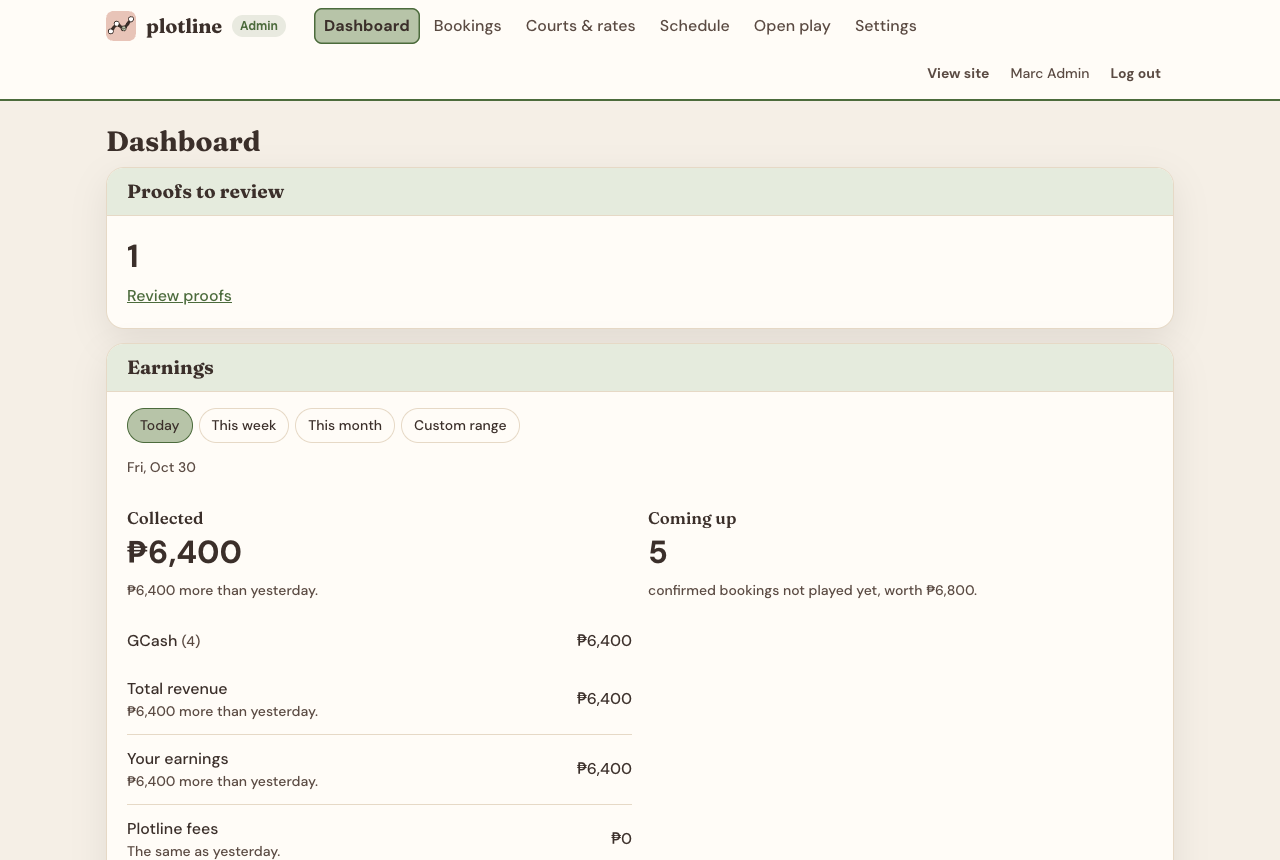
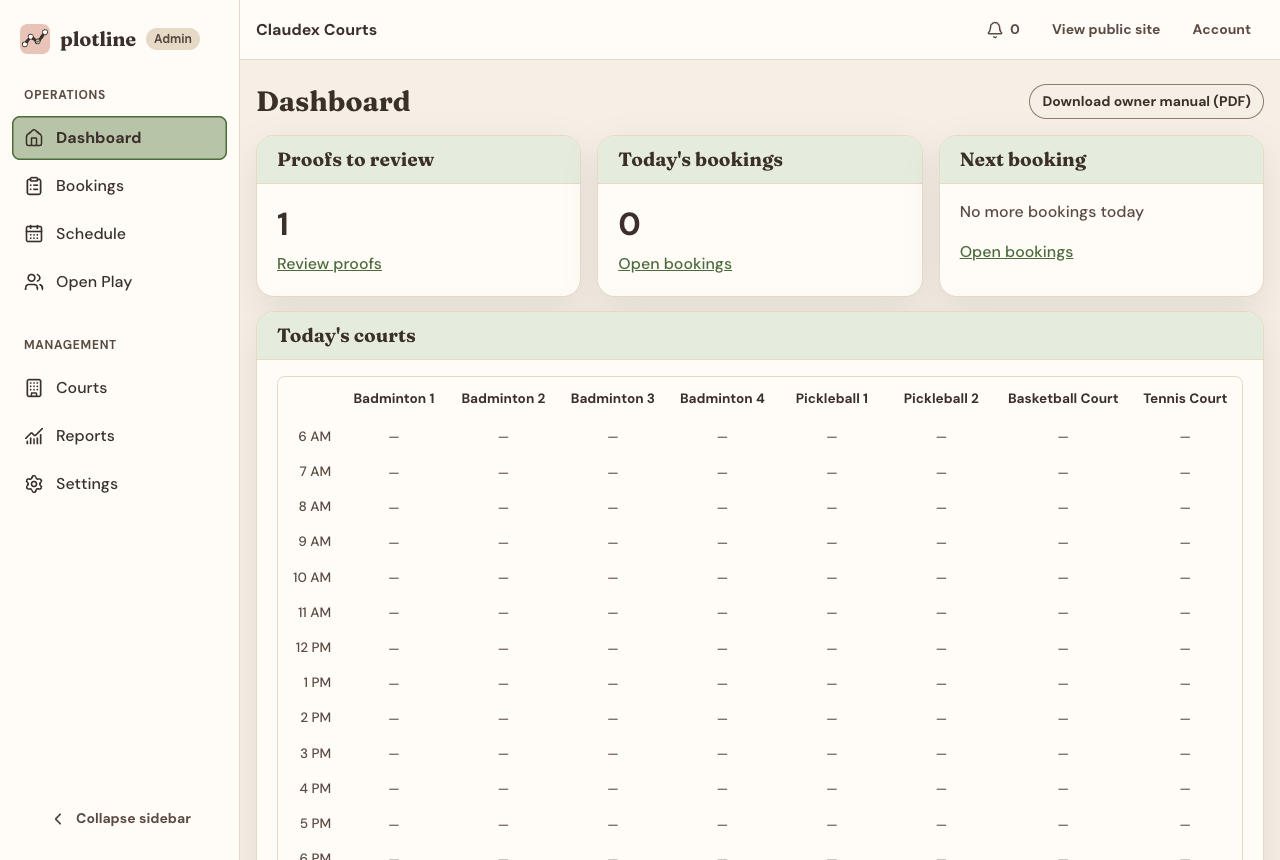
docs(m27): T27.10 close out M27

diff --git a/TASKS.md b/TASKS.md
@@ -7,7 +7,7 @@ The working plan. [SPEC.md](SPEC.md) says **what** the product does; this file s
 - **Product audit (2026-11-12):** reviewed both repositories as one SaaS; see [Plotline SaaS product review](<reports/Plotline SaaS product review.md>). Analysis only: recommendations are not accepted backlog or implementation changes; product code and the current next task are unchanged. Research included read-only live marketing/demo inspection; no implementation gates were run. **Broken down on 2026-11-13 into M27** (the user's calls; see Current milestone).
 
 - **Owner email copy polish (2026-11-07, the user's request, commit `2da16be`):** warmer invitation, clearer one-use/expiry instructions, descriptive HTML links, guide/support wording, walkthrough offer and “See you on court” sign-off in `_shared/ownerInvite.ts` (HTML and plain text; existing-account sign-in kept). Reviewer PASS with no findings. Gate: covered by T17.30's full gate with e2e on 2026-11-07 (HEAD `7c0bb7d` contains it). Staging's `invite-venue-owner` was redeployed at 03:50 UTC, after the commit (03:48 UTC), so staging sends this copy; production's deploy order is not verified here (check `updated_at` with the production project linked before inviting a real owner).
-- **Current milestone:** M18 Venue feature switches ✅ done on 2026-11-10 (T18.1–T18.5; started before M16 closed, the user's call; milestone review PASS). **M19 Promo rates ✅ done on 2026-11-10** (T19.1–T19.4; milestone review PASS). **M20 Fuller venue themes ✅ done on 2026-11-10** (T20.1–T20.4). **M22 Sport card shortcuts ✅ done on 2026-11-12** (T22.1, T22.1b, T22.2; milestone review PASS). **M24 Venue staff invites ✅ done on 2026-11-13** (T24.1 `17a605f`, T24.2 `e93dfe7`, T24.3; milestone review PASS). /retro M24 done 2026-11-13 (no changes). **M25 Console polish ✅ done on 2026-11-13** (T25.1 `8dbc063`, T25.2; milestone review PASS). **M26 Invoice delivery ✅ done on 2026-11-13** (T26.1–T26.8; milestone review PASS). **Next task:** T27.10 (T27.9 done 2026-11-15: PayMongo removed from plotline-site, QR code named as a payment option, reviewer PASS, site deployed with the user's approval; T27.8 done 2026-11-15: `npm run preflight:release -- --project-ref <ref>` passed on staging and production, reviewer PASS; T27.7 done 2026-11-15: dashboard today first, card links open the filtered bookings, reviewer PASS; T27.6 done 2026-11-15: court details collapsed on `/book` and a compact phone date strip and sport row, so the slot grid shows at 390×844; reviewer PASS in round 2 after an upheld test dispute; T27.5 done 2026-11-15: "Try this time again" / "Book a court" on expired and rejected bookings, reviewer PASS in round 2 after two upheld test disputes; before a full gate check every local container is up, `docker ps -a`, since the edge runtime can stay stopped after a Docker restart; T27.4 done 2026-11-13: one payment path on `/booking/:ref`, reviewer PASS; T27.3 done 2026-11-13: status steps and payment first on `/booking/:ref`, reviewer PASS in round 2; T27.4 and T27.5 now unblocked; T27.2 done 2026-11-13: "Reserve and continue to payment" and the cancellation cutoff at checkout, reviewer PASS; T27.1 done 2026-11-13: fee-inclusive total in the selection bar, reviewer PASS; M27 breakdown approved 2026-11-13; T27.2, T27.6, T27.7, T27.8 and T27.9 can start at once); /retro M26 optional. **Recorded 2026-11-13 (`/propose` on the product review, the user's calls): M27 Trust and daily operations**, T27.1 Fee-inclusive total in the selection bar, T27.2 "Reserve" wording and the cancellation cutoff at checkout, T27.3 Booking page: status steps, payment first, T27.4 One payment path, T27.5 "Try this time again" after an expired or rejected hold, T27.6 Slot grid sooner on phones, T27.7 Owner dashboard: today first, links in context, T27.8 Release preflight, T27.9 Remove PayMongo from the marketing site (plotline-site), T27.10 Close out M27. No migration and no plan gate. T27.1, T27.2, T27.6, T27.7, T27.8 and T27.9 can start at once, and T27.4 and T27.5 follow T27.3. M16's T16.4, T16.5 and T16.7 are no longer postponed (T16.5 now depends on T27.8). Deferred: staff permissions, refund tracking, analytics, contact form, reminders. **M26 released 2026-11-13 (the user's approval, all four steps):** `invoice-pdf` deployed to staging (`avhxinkecylhptysgbjx`) and production (`sfssolhsthteonzgzfos`), v1 on both, same bundle `86d3bc4`, `verify_jwt` on (401 without a session); migration `20261113045318_t26_3_platform_billing` pushed to production (L6: `migration list` on `sfssolhsthteonzgzfos` shows it remote; tables empty, `platform-billing` private); frontend released by merging `develop` into `master` (Cloudflare Workers Builds). Production has no Plotline payment account yet: add one on the console's Billing page before the first Send. Not yet tried outside the local stack: a real send (check the attachment and logo in Gmail/Outlook, T26.4 follow-up). Open M26 minors: T26.1's averaged Rate row and Print omitting the closed charge list; the T26.5/T26.6 e2e skip at 5 local accounts; `invoice_sends.provider_id` always null. T26.7 done 2026-11-13 (`?invoice=` link opens the invoice on Reports, Download PDF on sent/paid; reviewer PASS; needs T26.3's migration and T26.4's function on a project). T26.6 done 2026-11-13 (Send/Resend invoice and Preview PDF in the console; reviewer PASS; works on a project only once T26.3's migration and T26.4's function are there). T26.5 done 2026-11-13 (console Billing page; reviewer PASS; needs T26.3's migration on production first). T26.4 done 2026-11-13 (`invoice-pdf` built, reviewer PASS; not deployed anywhere: deploy order is T26.3's migration, then this function, then a frontend with T26.5–T26.7, each with the user's approval).  T26.3 done 2026-11-13 (migration `20261113045318_t26_3_platform_billing` on staging only, **not production**: push it with the release approval before T26.4's function or T26.5–T26.7's frontend reaches production; reviewer PASS). T26.2 done 2026-11-13 (sample PDF approved without the charge list; RESEARCH "Milestone 26", SPEC §10); T26.3's bucket should take PNG/JPG only (pdf-lib has no WEBP). T26.1 done 2026-11-13 (invoice details as a document view; reviewer PASS, two minor follow-ups under the task); /retro M25 optional (few events). **Recorded 2026-11-13 (`/propose`, the user's calls): M26 Invoice delivery**, T26.1 Invoice details as a document view (UI only), T26.2 Research: invoice PDF in an Edge Function (sample PDF for the user's approval), T26.3 Migration: Plotline payment details and invoice send log (risky: plan gate), T26.4 `invoice-pdf` Edge Function (risky: plan gate), T26.5 Plotline payment details in the console, T26.6 Send invoice in the console, T26.7 Invoice link and Download PDF on Reports, T26.8 Close out M26; T26.1 and T26.2 can start at once. T25.1 done 2026-11-13 (console venue panel regrouped, toned status badges; reviewer PASS). M25 Console polish was added on the user's request, UI only. `invite-venue-owner` (T24.1) deployed to staging (`avhxinkecylhptysgbjx`, v14) and production (`sfssolhsthteonzgzfos`, v11) on 2026-11-13 with the user's approval (same bundle hash `8c103bc…` on both, `verify_jwt` on), so the console's Invite staff works there. T24.2 done 2026-11-13 (Invite staff in the console's venue panel; reviewer PASS); it only works on staging/production once `invite-venue-owner` (T24.1) is deployed there, which needs the user's approval. T24.1 done 2026-11-12 (`invite-venue-owner` takes `role`; not deployed to staging or production yet, needs the user's approval). Then break down the next milestone (needs approval). **Recorded 2026-11-12 (`/propose`, the user's calls): M24 Venue staff invites**, T24.1 Staff role in `invite-venue-owner` (risky: plan gate), T24.2 Invite staff in the console, T24.3 Close out M24; no migration; it can run before the next milestone is broken down. H16 (e2e flakes and gate logging) done 2026-11-12 (full gate passed, reviewer PASS); before a full gate see `docs/ops/LOCAL-STACK.md` (Docker memory). /retro M22+M23 done 2026-11-12 (L6 production checks added; H16 scheduled; L5 macOS edits and the L3 seed-gap extension declined). **M23 Court gallery polish ✅ done on 2026-11-12** (T23.1 `77ae50c`, T23.2; milestone review PASS). **Recorded 2026-11-12 (`/propose`, the user's calls): M23 Court gallery polish**, T23.1 Gallery controls on the photo, chevron arrows on /book, T23.2 Close out M23 (UI only, no plan gate); it can run before the next milestone is broken down.  (T22.1 done 2026-11-12: sport cards link to `/book?sport=`; reviewer PASS); after M22, break down the next milestone (needs approval). **Recorded 2026-11-12 (`/propose`, the user's calls): M22 Sport card shortcuts**, T22.1 Sport cards link to the booking page, T22.2 Close out M22 (UI only, no plan gate); it can run before the next milestone is broken down. H12 done 2026-11-11 (flaky admin tests fixed; see the Harness backlog). /retro M21 done 2026-11-11 (L4 added; /implement step 7 tells the reviewer what it cannot run). T21.3 done 2026-11-11. **Recorded 2026-11-10 (`/propose`, the user's calls): M21 Show the admin side**, T21.1 Admin tour screenshots, T21.2 Admin demo video, T21.3 Close out M21, with plotline-site Milestone 4 (T4.1 Admin tour section, T4.2 Demo video in the tour) as its companion; no migration, T21.1 built and verified 2026-11-10 (`scripts/admin-tour.mjs`, `npm run tour:shots`, ten pictures in `docs/admin-tour/`; full gate passed), reviewer PASS, pictures approved by the user, done (`d0fd64f`). **T21.2 Admin demo video built 2026-11-10** (`npm run tour:video`, about 70 s, MP4 + WebM + poster + captions in `docs/admin-tour/`; RESEARCH "Milestone 21"), full gate passed, reviewer PASS, approved by the user on 2026-11-11, done. plotline-site T4.1 (`1943eda`) and T4.2 (`7b3dcc8`) are committed there, not pushed or deployed (production needs `npm run cf:deploy` there). **M21 ✅ done 2026-11-11** (T21.3). /retro M20 done 2026-11-10 (L2 extended to enumerated-list greps; the Handoff check promoted to `/implement` step 7). T20.4 done 2026-11-10 (docs close-out). T20.3 done 2026-11-10 (full palettes, Slate and Midnight in the UI; no migration; needs T20.2's migration on production first). T20.2 done 2026-11-10 (plan approved; migration `20261110124954_t20_2_theme_presets` adds `slate` and `midnight` to the check, on staging, not production: push it to production with the release approval before a frontend with T20.3 reaches it). T20.1 done 2026-11-10 (palettes picked: Soft, plus `slate` and `midnight`; RESEARCH "Milestone 20"). /retro M19 done 2026-11-10 (test-writer checklist: error codes copied from the Do/SPEC §6, weekday-proof date fixtures). T19.3 done 2026-11-10 (promo price and label on `/book`, the selection bar and checkout; no migration). T19.2 done 2026-11-10 (Promos tab on `/admin/schedule`, no migration). T19.1 done 2026-11-10: migration `20261110103348_t19_1_court_promos` is on staging, not production; push it to production (release approval) before a frontend with T19.2/T19.3 reaches it. M16's T16.4, T16.5, T16.7 stay postponed. **Release order for production:** push `20261109173649_t18_1_online_payments_switch` and `20261110091751_t18_3_walk_ins_switch` to production (needs the user's release approval) before any frontend built from this `develop` reaches it, or the console's switches fail. Staging has both; every staging venue has walk-ins off until a platform admin turns them on in the console. /retro M18 done 2026-11-10: L3 and L1 checks extended (`/implement` brief runtime facts, test-writer pgTAP types), `reviewer.md` notes it can't run `npm run verify`, and H15 (regenerate `database.types.ts`, which T18.1/T18.3 hand-edited because `db:types` with CLI v2.121.0 changes real types) is queued in the Harness backlog. Earlier: M17 ✅ 2026-11-07; /retro M17, H13, H14 done. M16's T16.4, T16.5, T16.7 postponed by the user (2026-11-10); T16.4's StatusCake setup is in `docs/ops/UPTIME.md`. T16.3 Sentry live on staging and production (follow-ups: SDK v11, source maps). T16.6 done 2026-11-08.
+- **Current milestone:** M18 Venue feature switches ✅ done on 2026-11-10 (T18.1–T18.5; started before M16 closed, the user's call; milestone review PASS). **M19 Promo rates ✅ done on 2026-11-10** (T19.1–T19.4; milestone review PASS). **M20 Fuller venue themes ✅ done on 2026-11-10** (T20.1–T20.4). **M22 Sport card shortcuts ✅ done on 2026-11-12** (T22.1, T22.1b, T22.2; milestone review PASS). **M24 Venue staff invites ✅ done on 2026-11-13** (T24.1 `17a605f`, T24.2 `e93dfe7`, T24.3; milestone review PASS). /retro M24 done 2026-11-13 (no changes). **M25 Console polish ✅ done on 2026-11-13** (T25.1 `8dbc063`, T25.2; milestone review PASS). **M26 Invoice delivery ✅ done on 2026-11-13** (T26.1–T26.8; milestone review PASS). **Next task:** none in M27 (T27.10 done 2026-11-15, M27 ✅; next: /retro M27, then T16.4, T16.5, T16.7 or break down the next milestone) (T27.9 done 2026-11-15: PayMongo removed from plotline-site, QR code named as a payment option, reviewer PASS, site deployed with the user's approval; T27.8 done 2026-11-15: `npm run preflight:release -- --project-ref <ref>` passed on staging and production, reviewer PASS; T27.7 done 2026-11-15: dashboard today first, card links open the filtered bookings, reviewer PASS; T27.6 done 2026-11-15: court details collapsed on `/book` and a compact phone date strip and sport row, so the slot grid shows at 390×844; reviewer PASS in round 2 after an upheld test dispute; T27.5 done 2026-11-15: "Try this time again" / "Book a court" on expired and rejected bookings, reviewer PASS in round 2 after two upheld test disputes; before a full gate check every local container is up, `docker ps -a`, since the edge runtime can stay stopped after a Docker restart; T27.4 done 2026-11-13: one payment path on `/booking/:ref`, reviewer PASS; T27.3 done 2026-11-13: status steps and payment first on `/booking/:ref`, reviewer PASS in round 2; T27.4 and T27.5 now unblocked; T27.2 done 2026-11-13: "Reserve and continue to payment" and the cancellation cutoff at checkout, reviewer PASS; T27.1 done 2026-11-13: fee-inclusive total in the selection bar, reviewer PASS; M27 breakdown approved 2026-11-13; T27.2, T27.6, T27.7, T27.8 and T27.9 can start at once); /retro M26 optional. **Recorded 2026-11-13 (`/propose` on the product review, the user's calls): M27 Trust and daily operations**, T27.1 Fee-inclusive total in the selection bar, T27.2 "Reserve" wording and the cancellation cutoff at checkout, T27.3 Booking page: status steps, payment first, T27.4 One payment path, T27.5 "Try this time again" after an expired or rejected hold, T27.6 Slot grid sooner on phones, T27.7 Owner dashboard: today first, links in context, T27.8 Release preflight, T27.9 Remove PayMongo from the marketing site (plotline-site), T27.10 Close out M27. No migration and no plan gate. T27.1, T27.2, T27.6, T27.7, T27.8 and T27.9 can start at once, and T27.4 and T27.5 follow T27.3. M16's T16.4, T16.5 and T16.7 are no longer postponed (T16.5 now depends on T27.8). Deferred: staff permissions, refund tracking, analytics, contact form, reminders. **M26 released 2026-11-13 (the user's approval, all four steps):** `invoice-pdf` deployed to staging (`avhxinkecylhptysgbjx`) and production (`sfssolhsthteonzgzfos`), v1 on both, same bundle `86d3bc4`, `verify_jwt` on (401 without a session); migration `20261113045318_t26_3_platform_billing` pushed to production (L6: `migration list` on `sfssolhsthteonzgzfos` shows it remote; tables empty, `platform-billing` private); frontend released by merging `develop` into `master` (Cloudflare Workers Builds). Production has no Plotline payment account yet: add one on the console's Billing page before the first Send. Not yet tried outside the local stack: a real send (check the attachment and logo in Gmail/Outlook, T26.4 follow-up). Open M26 minors: T26.1's averaged Rate row and Print omitting the closed charge list; the T26.5/T26.6 e2e skip at 5 local accounts; `invoice_sends.provider_id` always null. T26.7 done 2026-11-13 (`?invoice=` link opens the invoice on Reports, Download PDF on sent/paid; reviewer PASS; needs T26.3's migration and T26.4's function on a project). T26.6 done 2026-11-13 (Send/Resend invoice and Preview PDF in the console; reviewer PASS; works on a project only once T26.3's migration and T26.4's function are there). T26.5 done 2026-11-13 (console Billing page; reviewer PASS; needs T26.3's migration on production first). T26.4 done 2026-11-13 (`invoice-pdf` built, reviewer PASS; not deployed anywhere: deploy order is T26.3's migration, then this function, then a frontend with T26.5–T26.7, each with the user's approval).  T26.3 done 2026-11-13 (migration `20261113045318_t26_3_platform_billing` on staging only, **not production**: push it with the release approval before T26.4's function or T26.5–T26.7's frontend reaches production; reviewer PASS). T26.2 done 2026-11-13 (sample PDF approved without the charge list; RESEARCH "Milestone 26", SPEC §10); T26.3's bucket should take PNG/JPG only (pdf-lib has no WEBP). T26.1 done 2026-11-13 (invoice details as a document view; reviewer PASS, two minor follow-ups under the task); /retro M25 optional (few events). **Recorded 2026-11-13 (`/propose`, the user's calls): M26 Invoice delivery**, T26.1 Invoice details as a document view (UI only), T26.2 Research: invoice PDF in an Edge Function (sample PDF for the user's approval), T26.3 Migration: Plotline payment details and invoice send log (risky: plan gate), T26.4 `invoice-pdf` Edge Function (risky: plan gate), T26.5 Plotline payment details in the console, T26.6 Send invoice in the console, T26.7 Invoice link and Download PDF on Reports, T26.8 Close out M26; T26.1 and T26.2 can start at once. T25.1 done 2026-11-13 (console venue panel regrouped, toned status badges; reviewer PASS). M25 Console polish was added on the user's request, UI only. `invite-venue-owner` (T24.1) deployed to staging (`avhxinkecylhptysgbjx`, v14) and production (`sfssolhsthteonzgzfos`, v11) on 2026-11-13 with the user's approval (same bundle hash `8c103bc…` on both, `verify_jwt` on), so the console's Invite staff works there. T24.2 done 2026-11-13 (Invite staff in the console's venue panel; reviewer PASS); it only works on staging/production once `invite-venue-owner` (T24.1) is deployed there, which needs the user's approval. T24.1 done 2026-11-12 (`invite-venue-owner` takes `role`; not deployed to staging or production yet, needs the user's approval). Then break down the next milestone (needs approval). **Recorded 2026-11-12 (`/propose`, the user's calls): M24 Venue staff invites**, T24.1 Staff role in `invite-venue-owner` (risky: plan gate), T24.2 Invite staff in the console, T24.3 Close out M24; no migration; it can run before the next milestone is broken down. H16 (e2e flakes and gate logging) done 2026-11-12 (full gate passed, reviewer PASS); before a full gate see `docs/ops/LOCAL-STACK.md` (Docker memory). /retro M22+M23 done 2026-11-12 (L6 production checks added; H16 scheduled; L5 macOS edits and the L3 seed-gap extension declined). **M23 Court gallery polish ✅ done on 2026-11-12** (T23.1 `77ae50c`, T23.2; milestone review PASS). **Recorded 2026-11-12 (`/propose`, the user's calls): M23 Court gallery polish**, T23.1 Gallery controls on the photo, chevron arrows on /book, T23.2 Close out M23 (UI only, no plan gate); it can run before the next milestone is broken down.  (T22.1 done 2026-11-12: sport cards link to `/book?sport=`; reviewer PASS); after M22, break down the next milestone (needs approval). **Recorded 2026-11-12 (`/propose`, the user's calls): M22 Sport card shortcuts**, T22.1 Sport cards link to the booking page, T22.2 Close out M22 (UI only, no plan gate); it can run before the next milestone is broken down. H12 done 2026-11-11 (flaky admin tests fixed; see the Harness backlog). /retro M21 done 2026-11-11 (L4 added; /implement step 7 tells the reviewer what it cannot run). T21.3 done 2026-11-11. **Recorded 2026-11-10 (`/propose`, the user's calls): M21 Show the admin side**, T21.1 Admin tour screenshots, T21.2 Admin demo video, T21.3 Close out M21, with plotline-site Milestone 4 (T4.1 Admin tour section, T4.2 Demo video in the tour) as its companion; no migration, T21.1 built and verified 2026-11-10 (`scripts/admin-tour.mjs`, `npm run tour:shots`, ten pictures in `docs/admin-tour/`; full gate passed), reviewer PASS, pictures approved by the user, done (`d0fd64f`). **T21.2 Admin demo video built 2026-11-10** (`npm run tour:video`, about 70 s, MP4 + WebM + poster + captions in `docs/admin-tour/`; RESEARCH "Milestone 21"), full gate passed, reviewer PASS, approved by the user on 2026-11-11, done. plotline-site T4.1 (`1943eda`) and T4.2 (`7b3dcc8`) are committed there, not pushed or deployed (production needs `npm run cf:deploy` there). **M21 ✅ done 2026-11-11** (T21.3). /retro M20 done 2026-11-10 (L2 extended to enumerated-list greps; the Handoff check promoted to `/implement` step 7). T20.4 done 2026-11-10 (docs close-out). T20.3 done 2026-11-10 (full palettes, Slate and Midnight in the UI; no migration; needs T20.2's migration on production first). T20.2 done 2026-11-10 (plan approved; migration `20261110124954_t20_2_theme_presets` adds `slate` and `midnight` to the check, on staging, not production: push it to production with the release approval before a frontend with T20.3 reaches it). T20.1 done 2026-11-10 (palettes picked: Soft, plus `slate` and `midnight`; RESEARCH "Milestone 20"). /retro M19 done 2026-11-10 (test-writer checklist: error codes copied from the Do/SPEC §6, weekday-proof date fixtures). T19.3 done 2026-11-10 (promo price and label on `/book`, the selection bar and checkout; no migration). T19.2 done 2026-11-10 (Promos tab on `/admin/schedule`, no migration). T19.1 done 2026-11-10: migration `20261110103348_t19_1_court_promos` is on staging, not production; push it to production (release approval) before a frontend with T19.2/T19.3 reaches it. M16's T16.4, T16.5, T16.7 stay postponed. **Release order for production:** push `20261109173649_t18_1_online_payments_switch` and `20261110091751_t18_3_walk_ins_switch` to production (needs the user's release approval) before any frontend built from this `develop` reaches it, or the console's switches fail. Staging has both; every staging venue has walk-ins off until a platform admin turns them on in the console. /retro M18 done 2026-11-10: L3 and L1 checks extended (`/implement` brief runtime facts, test-writer pgTAP types), `reviewer.md` notes it can't run `npm run verify`, and H15 (regenerate `database.types.ts`, which T18.1/T18.3 hand-edited because `db:types` with CLI v2.121.0 changes real types) is queued in the Harness backlog. Earlier: M17 ✅ 2026-11-07; /retro M17, H13, H14 done. M16's T16.4, T16.5, T16.7 postponed by the user (2026-11-10); T16.4's StatusCake setup is in `docs/ops/UPTIME.md`. T16.3 Sentry live on staging and production (follow-ups: SDK v11, source maps). T16.6 done 2026-11-08.
 - **Scope added (2026-11-10, /propose, fuller venue themes):** new M20 Fuller venue themes (T20.1–T20.4): each "Website colors" preset restyles the whole site including the background, a few new presets are added (T20.2 migration, risky: plan gate), and the palettes are picked from a preview page first (T20.1). Starts after M19; the next task doesn't change.
 - **Scope added (2026-11-10, /propose, promo rates):** new M19 Promo rates (T19.1–T19.4): owners set limited-time fixed-price promos on `/admin/schedule`, applied by `slot_price`. Starts after M18; the next task doesn't change.
 - **Scope added (2026-11-10, /propose):** new M18 Venue feature switches (T18.1–T18.5): console switches for online payments and walk-ins per venue, `create_walk_in` refused while a venue's walk-ins are off, `VITE_FEATURE_WALK_INS` removed. Starts after M16 closes; the next task doesn't change.
@@ -2940,7 +2940,7 @@ Added on 2026-11-13 (`/propose`, the user's calls; SPEC §9 item 27, §10 2026-1
 - **Acceptance:** `grep -ri paymongo src` in plotline-site finds nothing outside generated types. Its tests (`sections.test.tsx`, `SimplePages.test.tsx`) are updated, its verify passes, and `npm run check:drift` passes here. Deploying the site (`npm run cf:deploy` there) needs the user's approval.
 - **Notes:** done 2026-11-15 in plotline-site (its T7.1): every PayMongo mention removed from `src/config/site.ts` and `src/config/legal.ts` (Terms "Your PayMongo account" gone, refunds and confirmation sentences rewritten, wording approved by the user); payments named as GCash, Maya or bank, by QR code or transfer, plus a "QR code" chip on the drawn pay screen (the user's addition); "Send a booking in a minute"; FAQ 13 questions. `grep -ri paymongo src` there hits only `database.types.ts` and the two absence tests (`sections.test.tsx`, `SimplePages.test.tsx`; FAQ counts in `content.test.ts`). Its verify passed (785 tests); `check:drift` passes here. Reviewer PASS (one minor: the grep criterion read as no copy or config hits). Committed there as `1353244` and deployed with the user's approval (`npm run cf:deploy`, version `241934c9`; the live bundle has no PayMongo and shows the new copy).
 
-### [ ] T27.10 Close out M27
+### [x] T27.10 Close out M27
 - **Depends:** T27.1–T27.9
 - **Do:**
   - **SPEC:** §9 marks M27 ✅; check §7 (the `/book`, `/book/checkout`, `/booking/:ref` and `/admin` rows) and §10.
@@ -2948,6 +2948,7 @@ Added on 2026-11-13 (`/propose`, the user's calls; SPEC §9 item 27, §10 2026-1
   - **Docs:** the owner manual where it describes the dashboard or checkout.
   - Milestone review.
 - **Acceptance:** `npm run verify` and `npm run check:drift` pass; the reviewer signs off.
+- **Notes:** done 2026-11-15. SPEC §9 marks M27 ✅; §7's `/book`, `/book/checkout`, `/booking/:ref` and `/admin` rows already describe M27 (checked). Local DB reset, then `npm run screenshots` (README shots in `docs/screenshots/`) and `npm run tour:shots` (`docs/admin-tour/`: dashboard, earnings, bookings, open-play changed). The tour script also copied its 10 images into `../plotline-site/public/admin-tour/` (uncommitted there: plotline-site's tour images are refreshed and need a commit and `cf:deploy` there). Owner manual: no change (its Dashboard order, Proofs, Today's courts, Earnings last, already matches; it doesn't cover checkout).
 
 ---
 

diff --git a/SPEC.md b/SPEC.md
@@ -504,7 +504,7 @@ Until emails ship, the confirmation page shows the private link with a "save thi
 24. ✅ **Venue staff invites** (added 2026-11-12, `/propose`; done 2026-11-13; T24.1–T24.3 in TASKS): venues want their staff to have admin accounts too. From the console a platform admin invites a staff email to a venue: `invite-venue-owner` takes an optional `role` (`owner` by default) and with `staff` adds a `venue_members` staff row and sends a staff version of the email, and each venue in the console's Venues list gets an **Invite staff** button. Staff keep the same `/admin` rights as owners for now. No migration (the `staff` role exists since M12).
 25. ✅ **Console polish** (added 2026-11-13, the user's call; done 2026-11-13; T25.1, T25.2 in TASKS): the venue panel had grown into one long column of controls (M17–M24), so it is regrouped into stat tiles, Features, Access and a Danger zone, and every console list shows toned status pills. UI only: every label, button name and status line kept.
 26. ✅ **Invoice delivery** (added 2026-11-13, `/propose`; done 2026-11-13; T26.1–T26.8 in TASKS): the console's invoice details panel becomes a document view that looks like the PDF (header with number and status, dates, an item table with quantity × rate, total, charges folded away, actions at the bottom, a proper payment form). Platform admins email an invoice to the venue's owners: a new Edge Function builds a branded PDF (Plotline logo, Bill To, dates, items, totals, Plotline's payment QR and account details, no Zoho branding; the charge list was dropped on 2026-11-13, T26.2) and sends it from Plotline with a link to the venue's Reports page, where owners can also download the PDF. Sending a draft marks it sent; a sent invoice can be resent. Plotline's payment details (accounts with an optional QR) are set once in the console. Migration (platform payment details, a send log, a private storage bucket) and a new Edge Function, both behind plan gates. **Deploy order (each step with the user's approval, L6 check on production `sfssolhsthteonzgzfos`):** migration `20261113045318_t26_3_platform_billing` first, then the `invoice-pdf` function, then a frontend with T26.5–T26.7; Plotline's payment account must exist before the first Send. Staging has the migration only; nothing of M26 is on production.
-27. **Trust and daily operations** (added 2026-11-13, `/propose` on the [Plotline SaaS product review](<reports/Plotline SaaS product review.md>); T27.1–T27.10 in TASKS; M16's T16.4, T16.5 and T16.7 resume alongside it). The review's findings still held at HEAD `f57cb74`.
+27. ✅ **Trust and daily operations** (added 2026-11-13, `/propose` on the [Plotline SaaS product review](<reports/Plotline SaaS product review.md>); done 2026-11-15; T27.1–T27.10 in TASKS; M16's T16.4, T16.5 and T16.7 resume alongside it). The review's findings still held at HEAD `f57cb74`.
     - **Players see what they pay and what happens next:** the selection bar shows the fee-inclusive total; checkout's button says "Reserve and continue to payment" and states the cancellation cutoff; the booking page shows Reserved → Payment sent → Confirmed with the payment section first; picking a payment account carries it into the proof form; an expired or rejected hold offers "Try this time again".
     - **Slots and owner actions come first:** court info on `/book` starts collapsed so the grid shows sooner on phones; the owner dashboard puts today first and links to the exact bookings.
     - **Operations and claims:** a read-only release preflight refuses a frontend release when the target project lacks migrations or functions; the marketing site drops every PayMongo mention (plotline-site).
